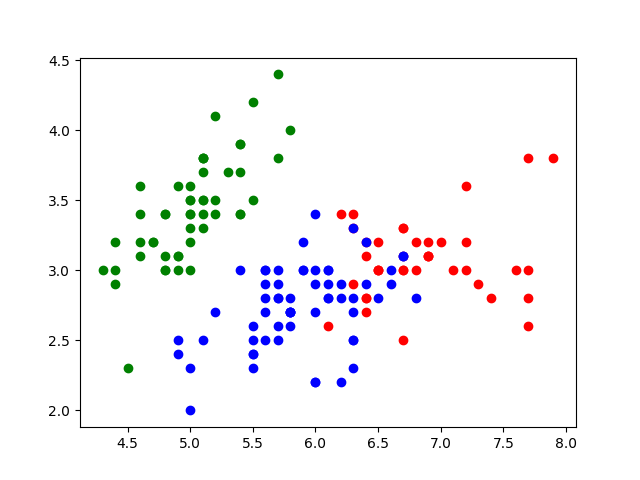
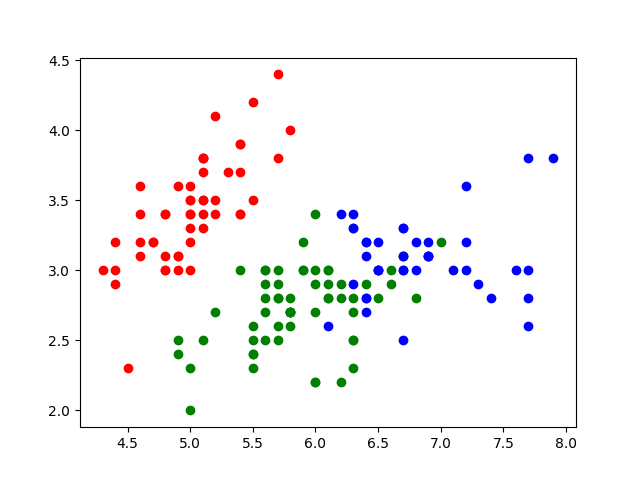
update

diff --git a/nyctaxi/sat.py b/nyctaxi/sat.py
@@ -1,0 +1,80 @@
+import pandas as pd
+
+df = pd.read_csv('/data/airline-passenger-satifaction/train.csv')
+print(df)
+print(df.columns)
+
+# ['Unnamed: 0', 'id', 'Gender', 'Customer Type', 'Age', Type of Travel',
+#	'Class', Flight Distance', 'Inflight wifi service',
+#	'Departure/Arrival time convenient', 'Ease of Online booking',
+#	'Gate Location', 'Food and drink', 'Online boarding', 'Seat confort',
+#	'Inflight entertainment', 'On-board service', 'Leg room service',
+# 	'Baggage handling', 'Checkin service', 'Inflight service',
+#	'Cleanliness', 'Departure Delay in Minutes', 'Arrival Delay in Minutes',
+#	'satisfaction']
+
+#df_sat = df[['Inflight wifi service', 'Departure/Arrival time convenient', 'Ease of Online booking',
+#	'Class', 'Flight Distance', 'Food and drink', 'ONline boarding', 'Seat comfort', 
+#	'Departure Delay in Minutes', 'Arrival Delay in Minutes', 'Cleanliness', 'Gender',
+#	'Customer Type', 'Age', 'Type of Travel', 'Gate location', 'On-board service', 
+#	'Leg room service', Baggage handling', 'Checkin Service', 'Inflight service', 
+#	'satisfaction']]
+
+df_sat = df[['Inflight wifi service', 'Departure/Arrival time convenient', 'Ease of Online booking', 'Class', 'Flight Distance', 'Food and drink', 'Online boarding', 'Seat comfort', 'Departure Delay in Minutes', 'Arrival Delay in Minutes', 'Cleanliness', 'Gender', 'Customer Type', 'Age', 'Type of Travel', 'Gate location', 'On-board service', 'Leg room service', 'Baggage handling', 'Checkin service', 'Inflight service', 'satisfaction']]
+
+print(df_sat)
+for c in df_sat.columns:
+	print(c, type(df_sat[c][0]))
+
+# convert Class column to numeric using one-hot encoding
+df_sat = pd.get_dummies(df_sat, columns=['Class', 'Gender', 'Customer Type', 'Type of Travel'])
+
+# change satisfaction to numeric
+df_sat['satisfaction'] = df_sat['satisfaction'].map({'satisfied': 1, 'neutral or dissatisfied': 0})
+print(df_sat)
+
+# remove nans
+df_sat = df_sat.dropna()
+
+# cluster
+from sklearn.cluster import KMeans
+from sklearn.preprocessing import StandardScaler
+from sklearn.pipeline import make_pipeline
+import matplotlib.pyplot as plt
+
+df_nosat = df_sat.drop(columns=['satisfaction'])
+scaler = StandardScaler()
+kmeans = KMeans(n_clusters=2)
+pipeline = make_pipeline(scaler, kmeans)
+pipeline.fit(df_nosat)
+labels = pipeline.predict(df_nosat)
+df_nosat['cluster'] = labels
+
+# plot
+plt.scatter(df_nosat['Inflight wifi service'], df_nosat['Departure/Arrival time convenient'], c=labels)
+plt.xlabel('Inflight wifi service')
+plt.ylabel('Departure/Arrival time convenient')
+plt.savefig('airline-sat-cluster.png')
+plt.clf()
+
+# t-sne
+from sklearn.manifold import TSNE
+
+model = TSNE(n_components=2, n_jobs=-1, learning_rate=10)
+transformed = model.fit_transform(df_nosat)
+xs = transformed[:,0]
+ys = transformed[:,1]
+plt.scatter(xs, ys, c=labels, alpha=0.5, s=1)
+plt.savefig('airline-sat-tsne.png')
+
+# plot original labels with t-sne
+
+plt.clf()
+plt.scatter(xs, ys, c=df_sat['satisfaction'], alpha=0.5, s=1)
+plt.savefig('airline-sat-tsne-sat.png')
+
+# check accuracy of labels
+import numpy as np
+
+print(np.mean(df_sat['satisfaction'] == labels))
+

diff --git a/htrc/words.py b/htrc/words.py
@@ -1,0 +1,47 @@
+import glob
+import random
+import json
+import bz2
+import numpy as np
+
+files = list(glob.glob('/data/htrc/**/*.json.bz2', recursive=True))
+random.shuffle(files)
+print(files[:10])
+subset_files = files[:20]
+
+word_counts = {}
+for file in subset_files:
+	print(file)
+	with bz2.open(file, 'rt') as f:
+		data = json.load(f)
+		for page in data['features']['pages']:
+			if 'body' in page and page['body'] is not None and 'tokenPosCount' in page['body'] and page['body']['tokenPosCount'] is not None:
+				for word in page['body']['tokenPosCount']:
+					word_counts[word] = word_counts.get(word, 0) + 1
+
+sorted_word_counts = sorted(word_counts.items(), key=lambda x: x[1], reverse=True)
+print(sorted_word_counts[:1000])
+
+# among this random set of docs, make a list of the most frequent 10k words
+
+most_freq_words = []
+for word_pair in sorted_word_counts[:10000]:
+	most_freq_words.append(word_pair[0])
+most_freq_words_idxs = dict(zip(most_freq_words, range(len(most_freq_words))))
+print(most_freq_words_idxs)
+
+# Now for each document in the glob (start with just 50 or so)
+# Mae a vector representing the % of occurances of each word among the top 10K
+# (And if that word doesn't occur, it's 0.0)
+
+for file in files[:50]:
+	print(file)
+	docvec = np.zeros(len(most_freq_words))
+	with bz2.open(file, 'rt') as f:
+		data = json.load(f)
+		for page in data['features']['pages']:
+			if 'body' in page and page['body'] is not None and 'tokenPosCount' in page['body'] and page['body']['tokenPosCount'] is not None:
+				for word in page['body']['tokenPosCount']:
+					if word in most_freq_words_idxs:
+						docvec[most_freq_words_idxs[word]] = 1
+	print(docvec)

diff --git a/nyctaxi/cluster.py b/nyctaxi/cluster.py
@@ -26,3 +26,13 @@ plt.savefig('iris-clusters.png')
 
 #t-sne
 plt.clf()
+
+from sklearn.manifold import TSNE
+import seaborn as sns
+tsne = TSNE(n_components=2)
+X_tsne = tsne.fit_transform(X)
+df['tsne1'] = X_tsne[:, 0]
+df['tsne2'] = X_tsne[:, 1]
+sns.scatterplot(x='tsne1', y='tsne2', hue='cluster', data=df)
+plt.savefig('iris-tsne.png')
+
